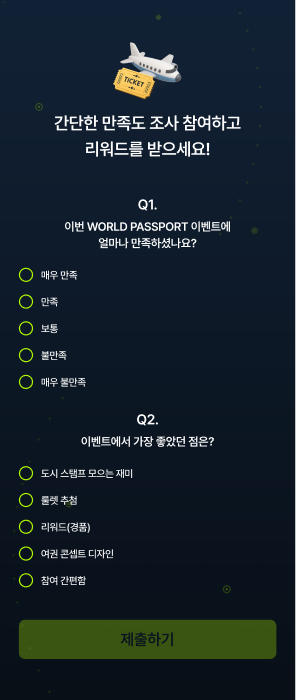
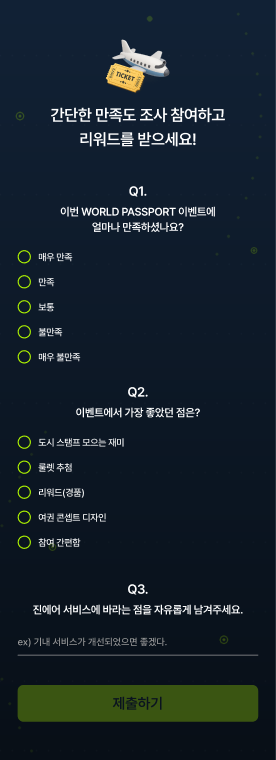
vault backup: 2026-07-07 18:25:34

diff --git a/큐알스탬프 솔루션/2. 작업 가이드/2-1. 페이지 구조/2-1-6. 설문지.md b/큐알스탬프 솔루션/2. 작업 가이드/2-1. 페이지 구조/2-1-6. 설문지.md
@@ -89,8 +89,8 @@ tags:
 
 ## 8. 화면 스펙 — `5-1. Survey-Default` (Figma 확정본) ⭐
 
-> 표준 템플릿 `WORLD PASSPORT` 기준(`6600:18790`). 아트보드 **375 폭 · 높이 가변**(2문항 기준 889 · 문항 늘면 증가) · **배경 = 풀블리드 이미지**(object-cover).
-> ⚠ **현재는 2문항 예시**다. 문항 수는 제한 없이 늘 수 있고(§2), 문항 컨테이너 **gap 24**로 아래에 반복 추가된다.
+> 표준 템플릿 `WORLD PASSPORT` 기준(`6600:18790`). 아트보드 **375 폭 · 높이 가변**(현재 1033 · 문항 늘면 증가) · **배경 = 풀블리드 이미지**(object-cover).
+> ⚠ **현재 예시 = 객관식 2문항(Q1·Q2) + 주관식 1문항(Q3)**. 문항 수·유형은 제한 없이 늘 수 있다(§2 · 아래 8-4). 문항 유형은 **① 객관식 ② 주관식** 2가지.
 > 색상은 이벤트에 맞춰 치환 — 예시값은 WORLD PASSPORT(메인 라임 `#B0F800` · 다크 배경 · 밝은 메인 위 텍스트=다크 `#0E1A2B`).
 
 ![[큐알스탬프 솔루션/attachments/survey-default-spec.png]]
@@ -106,13 +106,18 @@ tags:
  │     │ 12
  │    타이틀 "간단한 만족도 조사 참여하고 / 리워드를 받으세요!"
  │ 40
- ├ 문항 컨테이너 (gap 24) ────────── ← 문항이 여기 반복
- │    [문항 블록] (gap 20)
+ ├ 객관식 문항 컨테이너 (gap 24)
+ │    [객관식 블록] (gap 20)
  │        질문 라벨 그룹 (gap 4):  "Q1."  +  질문문
  │         │ 20
- │        보기 그룹 (gap 14):  □ 보기 · □ 보기 …
+ │        보기 그룹 (gap 14):  ○ 보기 · ○ 보기 …   (원형 체크박스)
  │     │ 24
- │    [문항 블록]  (Q2 …)
+ │    [객관식 블록]  (Q2 …)
+ │ 40
+ ├ [주관식 블록] (gap 20)
+ │        질문 라벨 그룹 (gap 4):  "Q3."  +  질문문
+ │         │ 20
+ │        입력 그룹 (gap 6):  예시 placeholder(회색) + 밑줄 입력 필드
  │ 40
  └ CTA "제출하기" (327 × 50)
  │ 52            ← 하단 패딩
@@ -120,7 +125,9 @@ tags:
 ```
 
 - **패딩**: 좌우 **24** · 상하 **52**. **콘텐츠 gap 40**(헤더 ↔ 문항 ↔ CTA).
-- **헤더 gap 12**(이미지 ↔ 타이틀). **문항 컨테이너 gap 24**(문항 ↔ 문항). **문항 내 gap 20**(질문 ↔ 보기그룹). **질문 라벨 gap 4**(Q번호 ↔ 질문문). **보기 gap 14**(보기 ↔ 보기). **보기 행 내 gap 10**(체크박스 ↔ 라벨).
+- **헤더 gap 12**(이미지 ↔ 타이틀). **객관식 문항 컨테이너 gap 24**(문항 ↔ 문항). **문항 내 gap 20**(질문 ↔ 응답영역). **질문 라벨 gap 4**(Q번호 ↔ 질문문).
+- **객관식**: 보기 gap **14** · 보기 행 내 gap **10**(체크박스 ↔ 라벨). **주관식**: 입력 그룹 gap **6**(예시 ↔ 밑줄 필드).
+- ※ 현재 파일상 주관식 블록은 객관식 컨테이너 밖 별도 블록으로 배치되어 상위 **gap 40** 간격을 받는다(문항을 한 그룹으로 묶고 싶으면 같은 컨테이너에 gap 24로 넣어도 됨).
 
 ### 8-2. 영역별 사양
 
@@ -130,7 +137,8 @@ tags:
 | **타이틀** | "간단한 만족도 조사 참여하고 / 리워드를 받으세요!" · center | **Pretendard SemiBold 22** · white · tracking -0.44 |
 | **Q번호** | "Q1." "Q2." … | **Pretendard SemiBold 18** · white · uppercase |
 | **질문문** | 어절 단위 줄바꿈 · center · w-full | **Pretendard SemiBold 15** · white · tracking -0.3 · leading 1.4 |
-| **보기(체크박스 행)** | 체크박스 **18 × 18** · border **메인 1.5px** · radius **30(원형)** + 라벨 · 상태별 = 아래 8-3 | 라벨 **Pretendard Medium 13** · white · tracking -0.39 |
+| **보기(객관식·체크박스 행)** | 체크박스 **18 × 18** · border **메인 1.5px** · radius **30(원형)** + 라벨 · 상태별 = 아래 8-3 | 라벨 **Pretendard Medium 13** · white · tracking -0.39 |
+| **입력 필드(주관식)** | 예시 placeholder + **밑줄 입력 필드**(w327 · 입력 그룹 gap 6) | 예시 **Pretendard Medium 13 · 회색 `#9A9A9A`** · leading 26 / 밑줄 옅은 회색(`#C0C0C0` 계열) |
 | **CTA "제출하기"** | **327 × 50** · radius **8** | **Pretendard SemiBold 20** · 텍스트=밝은 메인이면 다크(`#0E1A2B`) |
 
 ### 8-3. 🔘 체크박스 선택 전 / 후 (상태 디자인)
@@ -146,12 +154,29 @@ tags:
 - 가이드상 **객관식은 다중 선택 지원**(§2) — 비주얼은 원형이지만 **여러 개를 동시에 채울 수 있다**(라디오 단일선택 아님).
 - 하나라도 필수 문항이 선택되면 → `5-2. Survey-Filled`로 전환되며 **제출하기 버튼이 활성**(비활성 opacity 30% → 100%)된다.
 
-### 8-4. 문항 유형 & 확장 — **문항 수 가변(2·3·4…)**
+### 8-4. 문항 유형 — 객관식 / 주관식
 
-- 보기 = **원형 체크박스**(위 8-3). **주관식**은 공통 디자인 시스템의 입력 필드 컴포넌트 사용(→ 2-2-1).
-- ⭐ **설문 항목(문항) 수는 고정이 아니다** — 현재 2문항이지만 **3개·4개…로 늘 수 있다**(가이드상 질문 개수 제한 없음, §2).
-- **문항 추가** = 문항 블록(질문 라벨 그룹 + 보기 그룹)을 **gap 24**로 복제해 아래에 붙인다. 프레임 높이는 hug로 자동 증가(문항이 늘면 세로 길이 증가).
-- 현재 예시 2문항: **Q1** 만족도(매우 만족/만족/보통/불만족/매우 불만족) · **Q2** 가장 좋았던 점(도시 스탬프 모으는 재미/룰렛 추첨/리워드(경품)/여권 콘셉트 디자인/참여 간편함).
+> 문항은 **① 객관식(선택형)** 과 **② 주관식(서술형)** 2가지. 두 유형 모두 상단 **질문 라벨 그룹**(Q번호 18 + 질문문 15 · gap 4)은 동일하고, 그 아래 **응답 영역만 다르다**(문항 블록 내부 gap 20).
+
+#### ① 객관식 (선택형)
+
+- 응답 영역 = **원형 체크박스 보기 목록** (보기 gap **14** · 보기 행 내 gap 10).
+- 보기 행 = 체크박스 **18 × 18**(원형 테두리 메인 1.5px) + 라벨(**Pretendard Medium 13** · white).
+- **선택 전/후 상태** = §8-3 (미선택 = 빈 원 / 선택 = 중앙 메인 점). **다중 선택 지원**(§2).
+- 예시: **Q1** 만족도(매우 만족/만족/보통/불만족/매우 불만족) · **Q2** 가장 좋았던 점(도시 스탬프 모으는 재미/룰렛 추첨/리워드(경품)/여권 콘셉트 디자인/참여 간편함).
+
+#### ② 주관식 (서술형)
+
+- 응답 영역 = **예시(placeholder) 텍스트 + 밑줄 입력 필드** (입력 그룹 gap **6** · w327).
+- **예시 텍스트**: "ex) …" 형식 · **Pretendard Medium 13 · 회색 `#9A9A9A`** · leading 26 (작성 가이드용, 실제 입력 시 대체됨).
+- **입력 필드**: 하단 **밑줄(underline) 라인**(옅은 회색 `#C0C0C0` 계열) · 공통 디자인 시스템 입력 필드 사용(→ 2-2-1). 응답 텍스트는 밑줄 위에 표시.
+- 예시: **Q3** "진에어 서비스에 바라는 점을 자유롭게 남겨주세요." + ex) 기내 서비스가 개선되었으면 좋겠다.
+
+#### 문항 확장 (개수·유형 가변)
+
+- ⭐ **문항 수·유형은 고정이 아니다** — **객관식·주관식을 자유롭게 섞어 2·3·4개…**로 늘릴 수 있다(가이드상 질문 개수 제한 없음, §2).
+- **문항 추가** = 문항 블록(질문 라벨 그룹 + 응답 영역)을 복제해 아래에 붙인다(객관식 = gap 24 컨테이너 내 / 주관식 = 동일 패턴). 프레임 높이는 hug로 자동 증가.
+- 현재 예시 = **객관식 2(Q1·Q2) + 주관식 1(Q3)**.
 
 ### 8-5. 상태(프레임) 구성
 
